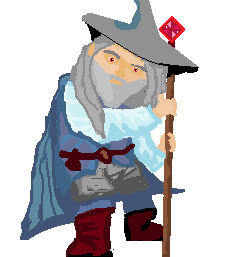
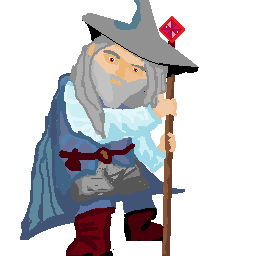
Coded Enemy2 to be in the first level.

Changed region(s): [[0.0588, 0.0, 0.8529, 1.0], [0.5294, 0.75, 0.5588, 0.7812]]

diff --git a/js/Main.js b/js/Main.js
@@ -19,6 +19,7 @@ var level1;
 var level2;
 var objects = [];
 var testObject;
+var testObject2;
 
 window.onload = function () {
 
@@ -45,6 +46,10 @@ function initRenderLoop() {
     testObject = new Character(300, 275, 5, spriteList['enemy1'], 0, 1, 0);
     //testObject.target = player;
     objects.push(testObject);
+	
+	testObject2 = new Character(500, 100, 5, spriteList['enemy2'], 0, 1, 0);
+    //testObject.target = player;
+    objects.push(testObject2);
 
     let healthPickup = new Item(300, 275, 0, null, -0.5, 0.2, 0);
     healthPickup.setType('health');

diff --git a/js/ImageLoading.js b/js/ImageLoading.js
@@ -16,7 +16,8 @@ function loadImages() {
 		{spriteName: 'leftHand', fileName: 'leftHand.png'},
 		{spriteName: 'rightHand', fileName: 'rightHand.png'},
 		{spriteName: 'snow', fileName: 'snow.png'},
-		{spriteName: 'enemy1', fileName: 'enemy1.png'}
+		{spriteName: 'enemy1', fileName: 'enemy1.png'},
+		{spriteName: 'enemy2', fileName: 'enemy2.png'}
 	]
 	
 	imagesToLoad = imageList.length;
